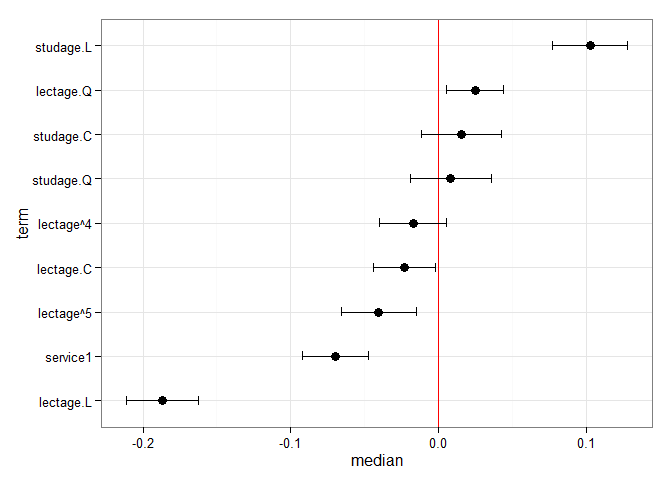
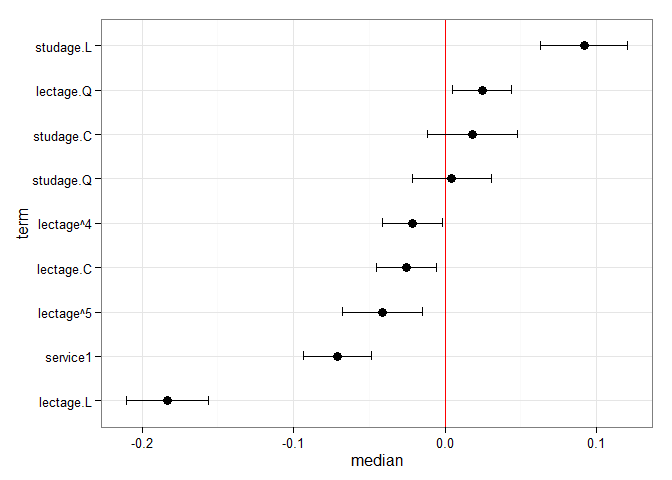
updated README.md

diff --git a/README.md b/README.md
@@ -6,7 +6,7 @@ A package for getting the most of our multilevel models in R
 
 by Jared E. Knowles and Carl Frederick
 
-[![Travis-CI Build Status](https://travis-ci.org/jknowles/merTools.png?branch=master)](https://travis-ci.org/jknowles/merTools) [![Coverage Status](https://coveralls.io/repos/jknowles/merTools/badge.svg?branch=master)](https://coveralls.io/r/jknowles/merTools?branch=master) [![Github Issues](http://githubbadges.herokuapp.com/jknowles/merTools/issues.svg)](https://github.com/jknowles/merTools/issues) [![Pending Pull-Requests](http://githubbadges.herokuapp.com/jknowles/merTools/pulls.svg?style=flat)](https://github.com/jknowles/merTools/pulls) [![CRAN\_Status\_Badge](http://www.r-pkg.org/badges/version/caretEnsemble)](http://cran.r-project.org/web/packages/merTools) [![Downloads](http://cranlogs.r-pkg.org/badges/merTools)](http://cran.rstudio.com/package=merTools)
+[![Travis-CI Build Status](https://travis-ci.org/jknowles/merTools.png?branch=master)](https://travis-ci.org/jknowles/merTools) [![Coverage Status](https://coveralls.io/repos/jknowles/merTools/badge.svg?branch=master)](https://coveralls.io/r/jknowles/merTools?branch=master) [![Github Issues](http://githubbadges.herokuapp.com/jknowles/merTools/issues.svg)](https://github.com/jknowles/merTools/issues) [![Pending Pull-Requests](http://githubbadges.herokuapp.com/jknowles/merTools/pulls.svg?style=flat)](https://github.com/jknowles/merTools/pulls) [![CRAN\_Status\_Badge](http://www.r-pkg.org/badges/version/merTools)](http://cran.r-project.org/web/packages/merTools) [![Downloads](http://cranlogs.r-pkg.org/badges/merTools)](http://cran.rstudio.com/package=merTools)
 
 Working with generalized linear mixed models (GLMM) and linear mixed models (LMM) has become increasingly easy with advances in the `lme4` package. As we have found ourselves using these models more and more within our work, we, the authors, have developed a set of tools for simplifying and speeding up common tasks for interacting with `merMod` objects from `lme4`. This package provides those tools.
 
@@ -18,7 +18,7 @@ Installation
 library(devtools)
 install_github("jknowles/merTools")
 
-# CRAN version -- coming soon
+# CRAN version
 install.packages("merTools")
 ```
 
@@ -65,17 +65,17 @@ With `predictInterval` we obtain predictions that are more like the standard obj
 #predictInterval(m1, newdata = InstEval[1:10, ]) # all other parameters are optional
 predictInterval(m1, newdata = InstEval[1:10, ], n.sims = 500, level = 0.9, 
                 stat = 'median')
-#>         fit      lwr      upr
-#> 1  3.212678 1.063293 5.021020
-#> 2  3.163909 1.438549 5.043916
-#> 3  3.423594 1.450930 5.329387
-#> 4  3.184908 1.082163 4.985627
-#> 5  3.272646 1.538196 5.452890
-#> 6  3.229198 1.295352 5.283061
-#> 7  4.128929 2.228645 6.094850
-#> 8  3.910574 1.648967 5.849607
-#> 9  3.729399 1.889009 5.711374
-#> 10 3.438017 1.418762 5.508910
+#>         fit       lwr      upr
+#> 1  3.052266 1.1647813 5.210683
+#> 2  3.135679 1.1206373 5.009499
+#> 3  3.364526 1.4939303 5.441621
+#> 4  3.179256 0.8370859 4.979016
+#> 5  3.222394 1.2279129 5.391039
+#> 6  3.260194 1.3687796 5.226282
+#> 7  4.178567 2.2323402 6.336519
+#> 8  3.792084 1.9005786 5.730374
+#> 9  3.807761 1.8573801 5.913037
+#> 10 3.313057 1.3747639 5.322044
 ```
 
 Note that `predictInterval` is slower because it is computing simulations. It can also return all of the simulated `yhat` values as an attribute to the predict object itself.
@@ -91,12 +91,12 @@ Plotting
 feSims <- FEsim(m1, n.sims = 100)
 head(feSims)
 #>          term        mean      median         sd
-#> 1 (Intercept)  3.22102856  3.22094538 0.01857148
-#> 2    service1 -0.06968367 -0.06987645 0.01362059
-#> 3   lectage.L -0.18605240 -0.18445724 0.01570463
-#> 4   lectage.Q  0.02434054  0.02300220 0.01334311
-#> 5   lectage.C -0.02490739 -0.02606262 0.01192429
-#> 6   lectage^4 -0.01891636 -0.01875975 0.01271187
+#> 1 (Intercept)  3.22302465  3.22061867 0.01969777
+#> 2    service1 -0.07133973 -0.07179828 0.01298692
+#> 3   lectage.L -0.18515817 -0.18611069 0.01588825
+#> 4   lectage.Q  0.02418465  0.02423985 0.01231833
+#> 5   lectage.C -0.02499318 -0.02438236 0.01323611
+#> 6   lectage^4 -0.01905369 -0.01900345 0.01375695
 ```
 
 And we can also plot this:
@@ -112,13 +112,13 @@ We can also quickly make caterpillar plots for the random-effect terms:
 ``` r
 reSims <- REsim(m1, n.sims = 100)
 head(reSims)
-#>   groupFctr groupID        term        mean      median        sd
-#> 1         s       1 (Intercept)  0.22058081  0.21648847 0.3233950
-#> 2         s       2 (Intercept) -0.10235168 -0.10254166 0.3149336
-#> 3         s       3 (Intercept)  0.29383942  0.26797892 0.3291858
-#> 4         s       4 (Intercept)  0.23623372  0.25423707 0.3007441
-#> 5         s       5 (Intercept)  0.08476158  0.07277292 0.3131551
-#> 6         s       6 (Intercept)  0.09851428  0.07116080 0.2581527
+#>   groupFctr groupID        term        mean     median        sd
+#> 1         s       1 (Intercept)  0.20652141  0.2281650 0.2979377
+#> 2         s       2 (Intercept) -0.07775118 -0.1018436 0.2741244
+#> 3         s       3 (Intercept)  0.27916524  0.2338235 0.3067520
+#> 4         s       4 (Intercept)  0.25173347  0.2565167 0.3032049
+#> 5         s       5 (Intercept)  0.07667364  0.1138901 0.2981970
+#> 6         s       6 (Intercept)  0.08480683  0.0471579 0.2027497
 ```
 
 ``` r
@@ -153,11 +153,11 @@ impSim <- REimpact(m1, InstEval[7, ], groupFctr = "d", breaks = 5,
                    n.sims = 300, level = 0.9)
 impSim
 #>   case bin   AvgFit     AvgFitSE nobs
-#> 1    1   1 2.799281 3.174322e-04  193
-#> 2    1   2 3.278761 6.471135e-05  240
-#> 3    1   3 3.573977 5.674664e-05  254
-#> 4    1   4 3.853878 5.975449e-05  265
-#> 5    1   5 4.244057 1.885801e-04  176
+#> 1    1   1 2.788627 2.778481e-04  193
+#> 2    1   2 3.250690 6.815468e-05  240
+#> 3    1   3 3.546823 5.744295e-05  254
+#> 4    1   4 3.836776 6.452212e-05  265
+#> 5    1   5 4.208457 1.864804e-04  176
 ```
 
 The result of `REimpact` shows the change in the `yhat` as the case we supplied to `newdata` is moved from the first to the fifth quintile in terms of the magnitude of the group factor coefficient. We can see here that the individual professor effect has a strong impact on the outcome variable. This can be shown graphically as well:
